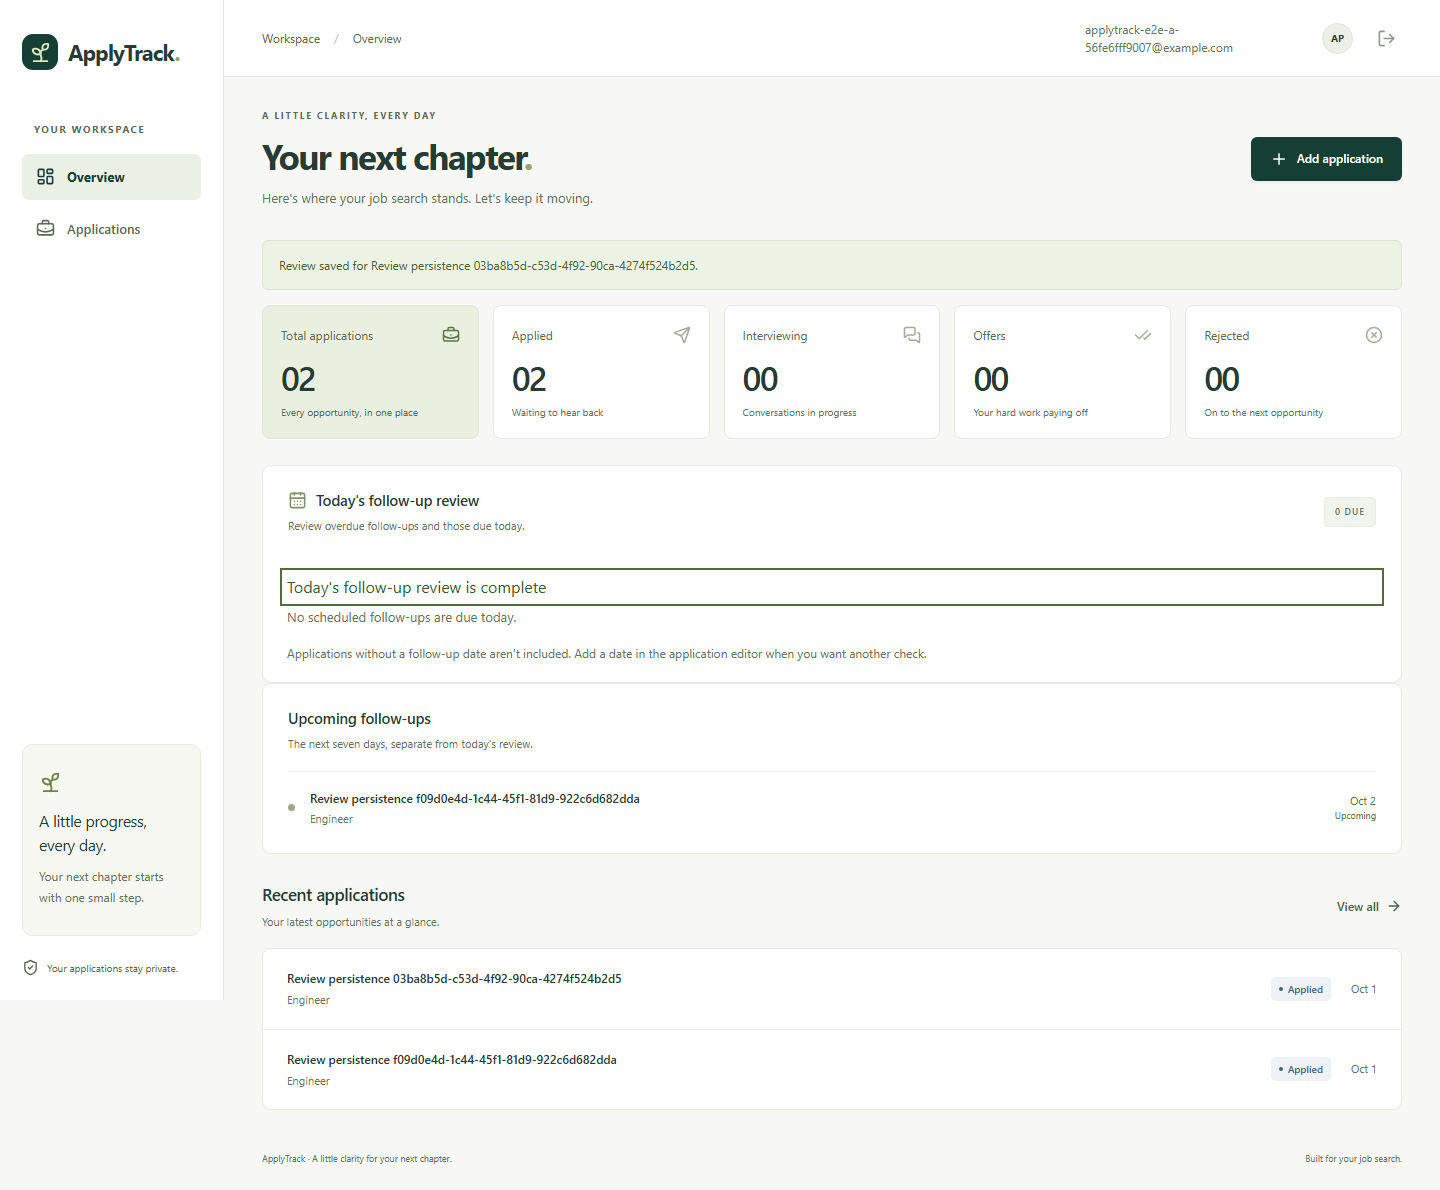
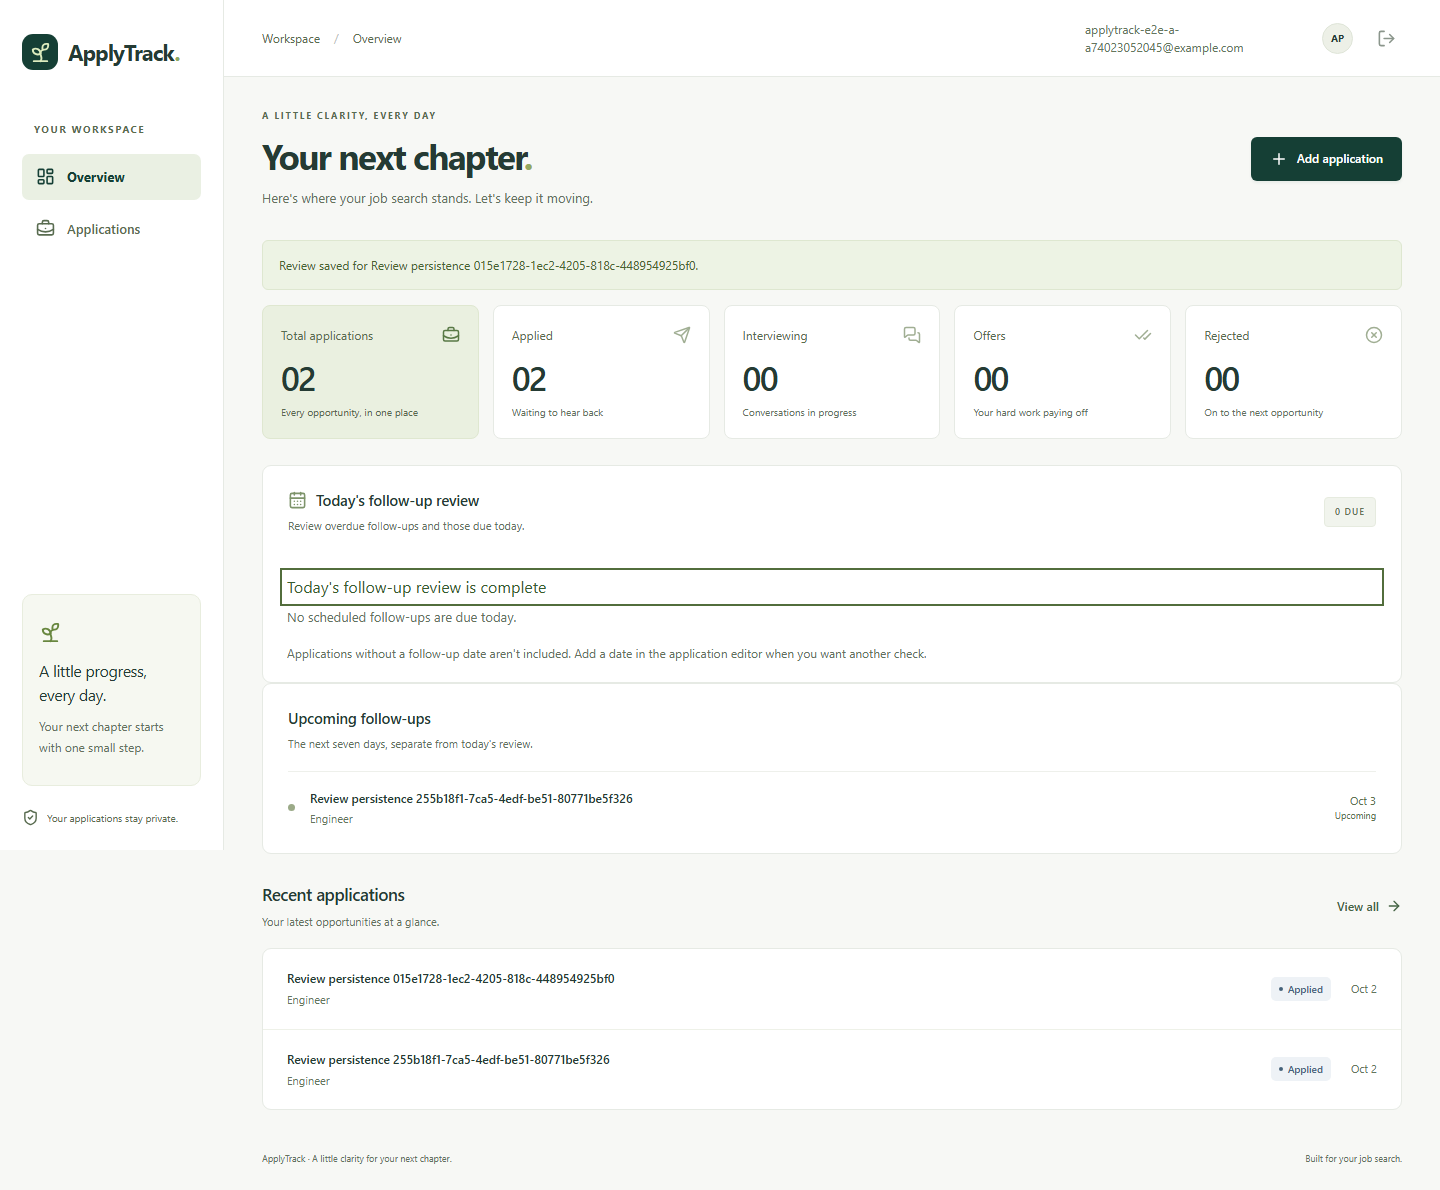
Finish ApplyTrack verification

diff --git a/tests/e2e/follow-up-review.spec.ts b/tests/e2e/follow-up-review.spec.ts
@@ -4,6 +4,45 @@ import { hasLiveAccounts, isEmulated, login } from "./helpers";
 const apiPath = "/src/features/applications/api/applications.ts";
 const clientPath = "/src/lib/firebase/client.ts";
 
+async function captureReviewState(
+  page: Page,
+  state: string,
+  fullPage: boolean,
+) {
+  if (process.env.E2E_CAPTURE_REVIEW_SCREENSHOTS !== "true") return;
+  const previousViewport = page.viewportSize();
+  try {
+    for (const width of [360, 390, 768, 1024, 1440]) {
+      await page.setViewportSize({ width, height: 850 });
+      expect(
+        await page.evaluate(
+          () => document.documentElement.scrollWidth <= window.innerWidth,
+        ),
+      ).toBe(true);
+      await page.screenshot({
+        path: "docs/screenshots/follow-up-" + state + "-" + width + "px.png",
+        fullPage,
+      });
+      if (state === "conflict") {
+        const discard = page.getByRole("button", {
+          name: "Discard draft and refresh",
+        });
+        await discard.focus();
+        await expect(discard).toBeFocused();
+        await expect(discard).toBeInViewport();
+        if (width === 360)
+          await page.screenshot({
+            path: "docs/screenshots/follow-up-conflict-controls-360px.png",
+          });
+        await page.getByRole("dialog").evaluate((element) => {
+          element.scrollTop = 0;
+        });
+      }
+    }
+  } finally {
+    if (previousViewport) await page.setViewportSize(previousViewport);
+  }
+}
 async function seeded(page: Page, followUpDate = "2020-01-01") {
   await page.goto("/app/applications/new");
   await expect(page.getByLabel("Company", { exact: false })).toBeVisible();
@@ -537,11 +576,7 @@ test("dashboard reviews the last due task, retains upcoming work, and persists c
         .getByRole("region", { name: "Upcoming follow-ups" })
         .getByText(upcoming.company),
     ).toBeVisible();
-    if (process.env.E2E_CAPTURE_REVIEW_SCREENSHOTS === "true")
-      await page.screenshot({
-        path: "docs/screenshots/follow-up-complete-1440px.png",
-        fullPage: true,
-      });
+    await captureReviewState(page, "complete", true);
     await page.reload();
     await expect(
       page.getByRole("heading", {
@@ -776,11 +811,7 @@ test("review denial retains a draft; acknowledgment with failed refresh prevents
       "Your review was saved, but we couldn't refresh",
     );
     expect(intercepted).toBe(true);
-    if (process.env.E2E_CAPTURE_REVIEW_SCREENSHOTS === "true")
-      await page.screenshot({
-        path: "docs/screenshots/follow-up-refresh-error-390px.png",
-        fullPage: true,
-      });
+    await captureReviewState(page, "refresh-error", true);
     await expect(
       page.getByRole("button", {
         name: "Review follow-up for " + record.company,
@@ -851,10 +882,7 @@ test("a selected review keeps its draft after a concurrent change and newly fetc
     await expect(
       page.getByRole("button", { name: "Save review", exact: true }),
     ).toHaveCount(0);
-    if (process.env.E2E_CAPTURE_REVIEW_SCREENSHOTS === "true")
-      await page.screenshot({
-        path: "docs/screenshots/follow-up-conflict-390px.png",
-      });
+    await captureReviewState(page, "conflict", false);
     await page
       .getByRole("button", { name: "Discard draft and refresh" })
       .click();

diff --git a/tests/e2e/applications.spec.ts b/tests/e2e/applications.spec.ts
@@ -64,6 +64,29 @@ test("authenticated CRUD, validation, persistence, status and dashboard follow-u
     .click();
   await expect(page.getByText(company).first()).toBeVisible();
   await page
+    .getByRole("button", { name: "Review follow-up for " + company })
+    .click();
+  await page.getByLabel("Review outcome").selectOption("waiting");
+  await page.getByLabel("Next follow-up date").fill("2099-01-01");
+  await page.getByRole("button", { name: "Save review", exact: true }).click();
+  await expect(page.getByRole("dialog")).not.toBeVisible();
+  await page.reload();
+  await expect(
+    page.getByRole("button", { name: "Review follow-up for " + company }),
+  ).toHaveCount(0);
+  await page.goto("/app/applications");
+  await page.getByLabel("Search company or role").fill(company);
+  await page
+    .getByRole("link", { name: "Edit " + company, exact: true })
+    .first()
+    .click();
+  await expect(page.getByLabel("Follow-up date", { exact: false })).toHaveValue(
+    "2099-01-01",
+  );
+  await expect(page.getByLabel("Notes", { exact: false })).toHaveValue(
+    "Prepare portfolio walkthrough.",
+  );
+  await page
     .getByRole("link", { name: "Applications", exact: true })
     .first()
     .click();

diff --git a/docs/verification.md b/docs/verification.md
@@ -2,7 +2,7 @@
 
 ## Finite follow-up review — local delivery
 
-Verified on 2026-10-01 in `C:\applytrack`, using disposable `demo-applytrack` Auth/Firestore emulators and local Vite on port 5174. No real records, hosted rules, frontend deployment, or portfolio files were modified. Changes remain local and uncommitted.
+Verified on 2026-10-01 in `C:\applytrack`, using disposable `demo-applytrack` Auth/Firestore emulators and local Vite on port 5174. No real records, hosted rules, frontend deployment, or portfolio files were modified. Implementation and verification made no new project commits or deployments.
 
 | Check                            | Observed result                                                                                                  |
 | -------------------------------- | ---------------------------------------------------------------------------------------------------------------- |
@@ -14,7 +14,7 @@ Verified on 2026-10-01 in `C:\applytrack`, using disposable `demo-applytrack` Au
 | Presentation                     | Review/demo checked at 360, 390, 768, 1024, and 1440px; completion, conflict, and refresh-error states inspected |
 | Accessibility                    | Selected automated checks and keyboard dialog/focus tests passed; not a complete conformance audit               |
 | Cleanup                          | Isolated runner stopped Auth, Firestore, hub, and logging normally                                               |
-| Final simplification/code review | Pending at documentation update; parent verification will record completion separately                           |
+| Final simplification/code review | Completed; eight review lenses, zero actionable findings; R1-R13 and U1-U5 met                                   |
 
 ### Verified behavior
 
@@ -33,6 +33,16 @@ Direct REST requests bypass React. Review checks cover cross-user/signed-out den
 ### Screenshots
 
 The fresh [desktop demo](screenshots/follow-up-demo-1440px.png), [mobile demo](screenshots/follow-up-demo-390px.png), [mobile review](screenshots/follow-up-review-390px.png), [completion](screenshots/follow-up-complete-1440px.png), [refresh error](screenshots/follow-up-refresh-error-390px.png), and [conflict](screenshots/follow-up-conflict-390px.png) were inspected. Review/demo captures also exist at all five listed widths. Full-page captures can contain fixed-navigation stitching artifacts; live viewport tests passed without horizontal overflow.
+
+### Code review
+
+The full `ce-code-review` pass completed on 2026-10-02 against an exact private comparison with the pre-work snapshot. Correctness, standards, testing, maintainability, security, reliability, adversarial checks, and frontend races found no actionable defects. All 13 requirements and five implementation units were met. Receipt: `20261002-041334-b2db4822`.
+
+The independent external-model pass was unavailable because its CLI tools were not installed; a local adversarial review completed. The simplification passes made no production changes. Small label/fixture duplication and repeated queue calculation were retained because their proposed refactors offered little benefit within this feature. No lint command is configured; Prettier checks passed. No code-review fixes or unresolved findings remained.
+
+### Supplemental checks on 2026-10-02
+
+The resumed type check, 73 unit tests, and Prettier check passed. Three supplemental emulator cases passed, followed by one conflict case with recovery-button focus and viewport assertions. Completion, conflict, and refresh-error states were inspected at all five planned widths. The scrollable 360px conflict dialog keeps its recovery controls reachable; [the focused recovery control](screenshots/follow-up-conflict-controls-360px.png) was inspected. Both supplemental emulator runs shut down normally.
 
 ### Reproduce and limits
 

diff --git a/TESTING.md b/TESTING.md
@@ -31,6 +31,8 @@ Failure tests temporarily deny creation, review commits, or reads only in the is
 
 Direct REST requests bypass React. The emulator suite contains 46 ownership/integrity checks, including legacy compatibility, strict review metadata, timestamps, preservation, and prohibited review changes. The historical hosted path contains 24 checks. A public-only `test:e2e` run with skipped authenticated cases does not satisfy the complete gate; `test:integration` supplies accounts and runs all applicable isolated cases. Clear an inherited debug flag before the runner if set: `$env:DEBUG = $null`.
 
+For the supplemental layout checks and refreshed screenshots, set `$env:E2E_CAPTURE_REVIEW_SCREENSHOTS = 'true'` before `test:integration`. This also checks completion, conflict, and refresh-error layouts at all five widths and verifies that conflict recovery controls can receive focus inside the viewport. Captures contain fictional or disposable emulator records. Remove the process-scoped flag afterward with `Remove-Item Env:E2E_CAPTURE_REVIEW_SCREENSHOTS`.
+
 ## Hosted Firebase verification
 
 ```powershell
